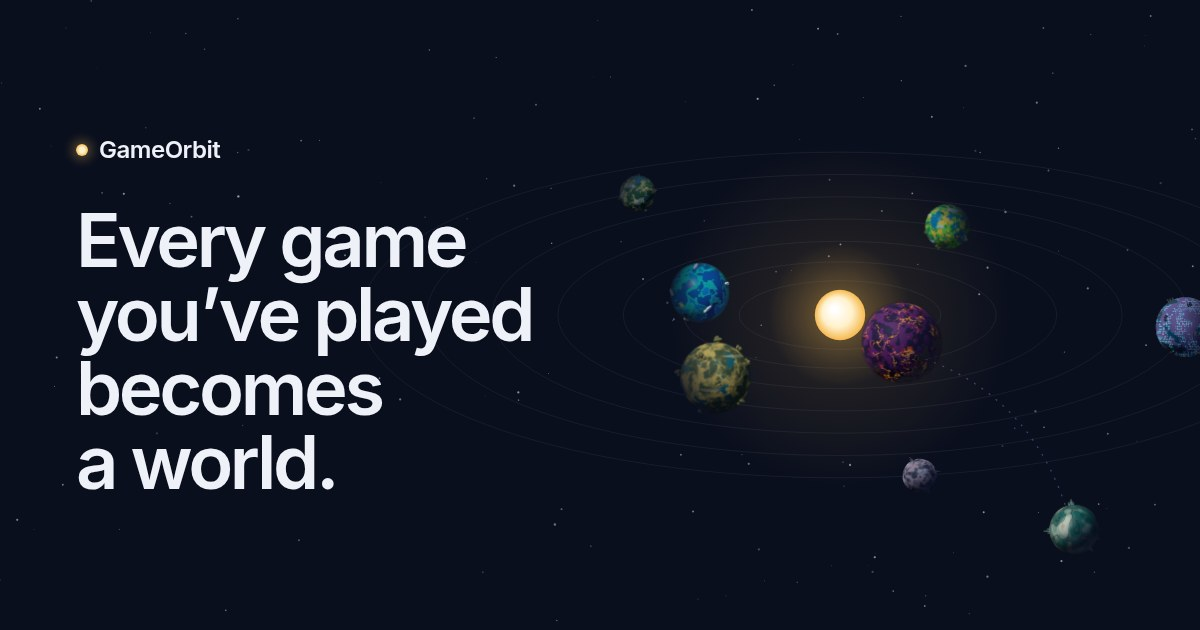
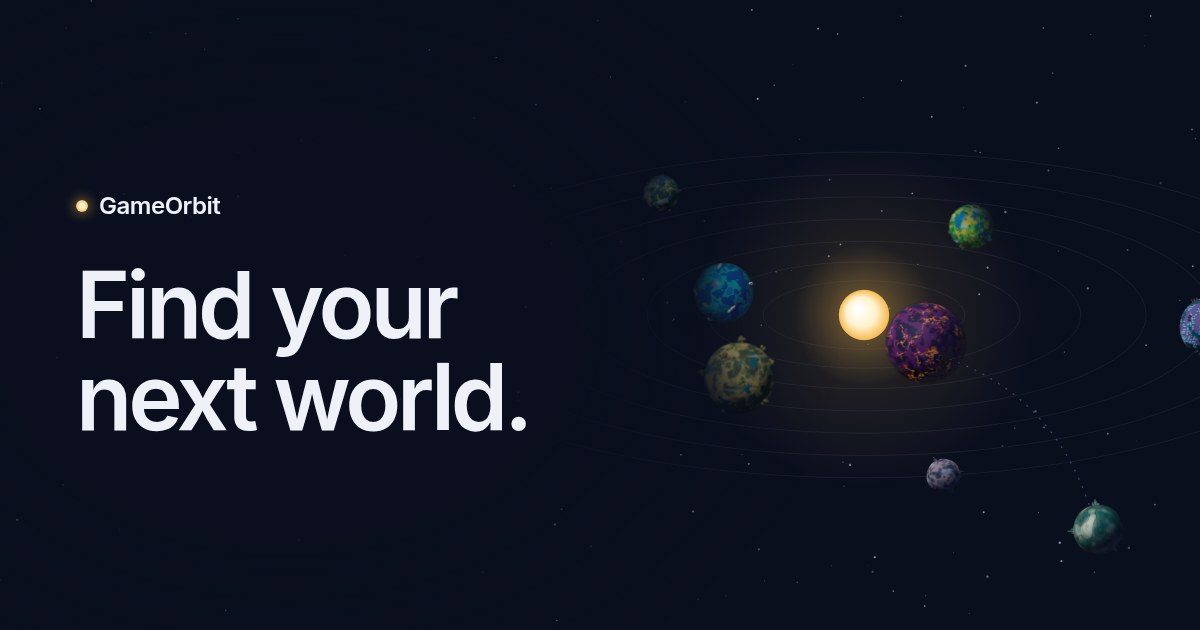
Make the homepage a single hero: "Find your next world."
Kevin chose a standalone hero with one line and the TestFlight button,
leaving the rest for people to discover in the app. The page is now the
orbit animation, "Find your next world.", "Join the TestFlight beta" and
"For iPhone and iPad", filling one screen between the header and footer.

Removed the homepage sections, the rating demo (rate.js) and the orbit
and flight screenshots. The header drops its duplicate beta button. The
link preview image and the invite page intro use the new line.
AGENTS.md records that the homepage stays a single hero.

Checked at 1440 and 1024 (2x), 1920, and 390 (3x) and 375 (2x):
one screen on desktop and iPad, headline and button above the fold on
the smallest iPhone, no console errors, broken links or overflow. The
private invite test passes against this branch.

Claude-Session: https://claude.ai/code/session_019jfzDjzmWwUSdCMXQw7Nnx

diff --git a/index.html b/index.html
@@ -5,15 +5,15 @@
 <meta name="viewport" content="width=device-width, initial-scale=1">
 <meta name="color-scheme" content="dark">
 <meta name="theme-color" content="#0a0f1e">
-<meta name="description" content="Rate the games you’ve played and each one becomes a world in your orbit. The worlds you’ve visited decide where you fly next.">
-<title>GameOrbit — Every game you’ve played becomes a world</title>
+<meta name="description" content="Find your next world. GameOrbit is in beta on iPhone and iPad.">
+<title>GameOrbit — Find your next world</title>
 <link rel="canonical" href="https://kcarter787.github.io/GameOrbit-site/">
 <link rel="icon" href="favicon.png" type="image/png">
 <link rel="apple-touch-icon" href="apple-touch-icon.png">
 <meta property="og:type" content="website">
 <meta property="og:site_name" content="GameOrbit">
-<meta property="og:title" content="GameOrbit — Every game you’ve played becomes a world">
-<meta property="og:description" content="Rate the games you’ve played and each one becomes a world in your orbit. The worlds you’ve visited decide where you fly next.">
+<meta property="og:title" content="GameOrbit — Find your next world">
+<meta property="og:description" content="GameOrbit is in beta on iPhone and iPad.">
 <meta property="og:url" content="https://kcarter787.github.io/GameOrbit-site/">
 <meta property="og:image" content="https://kcarter787.github.io/GameOrbit-site/images/og.jpg">
 <meta property="og:image:width" content="1200">
@@ -22,107 +22,18 @@
 <meta name="twitter:card" content="summary_large_image">
 <link rel="stylesheet" href="styles.css">
 <script src="orbit.js" defer></script>
-<script src="rate.js" defer></script>
 </head>
-<body>
+<body class="home">
 <a class="skip" href="#main">Skip to content</a>
-<header class="bar"><a class="brand" href="index.html">GameOrbit</a><nav aria-label="Main"><a href="support.html">Support</a><a class="hide-narrow" href="privacy.html">Privacy</a><a class="button small secondary" href="https://testflight.apple.com/join/PbN9ErAu">Join the beta</a></nav></header>
+<header class="bar"><a class="brand" href="index.html">GameOrbit</a><nav aria-label="Main"><a href="support.html">Support</a><a href="privacy.html">Privacy</a></nav></header>
 <main id="main">
 <section class="hero" aria-labelledby="title">
 <canvas id="orbit" aria-hidden="true"></canvas>
 <div class="hero-copy">
-<h1 id="title">Every game you’ve played becomes a world.</h1>
-<p class="lede">Rate what you’ve played to build your orbit. The worlds you’ve visited decide where you fly next.</p>
+<h1 id="title">Find your next world.</h1>
 <div class="cta"><a class="button" href="https://testflight.apple.com/join/PbN9ErAu">Join the TestFlight beta</a><span class="meta">For iPhone and iPad</span></div>
 </div>
 </section>
-
-<section class="section" aria-labelledby="worlds-title">
-<h2 id="worlds-title">Hades is an obsidian underworld.</h2>
-<div class="body"><p>Every game gets a world of its own, and it looks the same in your friends’ orbits as it does in yours.</p></div>
-<ul class="worlds">
-<li><figure><img src="images/worlds/hades.webp" width="480" height="480" alt="The Hades world: dark violet rock veined with glowing lava." loading="lazy"><figcaption><span class="title">Hades</span><span class="label">Obsidian underworld</span></figcaption></figure></li>
-<li><figure><img src="images/worlds/subnautica.webp" width="480" height="480" alt="The Subnautica world: deep blue ocean with turquoise shallows and drifting clouds." loading="lazy"><figcaption><span class="title">Subnautica</span><span class="label">Alien ocean</span></figcaption></figure></li>
-<li><figure><img src="images/worlds/elden-ring.webp" width="480" height="480" alt="The Elden Ring world: golden land with blue lakes and clusters of trees." loading="lazy"><figcaption><span class="title">Elden Ring</span><span class="label">Erdtree highlands</span></figcaption></figure></li>
-</ul>
-</section>
-
-<section class="section split" aria-labelledby="fun-title">
-<div>
-<h2 id="fun-title">Fun outranks everything.</h2>
-<div class="body">
-<p>Rate Fun, Gameplay, Art and sound, and Story from one to five stars. Fun sets the range, and the other three place the game within it.</p>
-<p>Five stars for Fun and one for everything else scores 8.5. Four for Fun and five for everything else scores 8.4. A game you couldn’t put down always ranks above one you only admired.</p>
-</div>
-</div>
-<form class="rater" id="rater" aria-label="Try the rating">
-<svg width="0" height="0" aria-hidden="true" style="position:absolute"><symbol id="star" viewBox="0 0 24 24"><path d="M12 2.9l2.8 5.7 6.3.9-4.55 4.45 1.07 6.27L12 17.25l-5.62 2.97 1.07-6.27L2.9 9.5l6.3-.9z" fill="currentColor" stroke="currentColor" stroke-width="1.8" stroke-linejoin="round"/></symbol></svg>
-<div class="row fun" role="radiogroup" aria-labelledby="fun-name">
-<span class="name" id="fun-name">Fun</span>
-<div class="stars"><input type="radio" name="fun" id="fun1" value="1" aria-label="1 star"><label for="fun1"><svg><use href="#star"/></svg></label><input type="radio" name="fun" id="fun2" value="2" aria-label="2 stars"><label for="fun2"><svg><use href="#star"/></svg></label><input type="radio" name="fun" id="fun3" value="3" aria-label="3 stars"><label for="fun3"><svg><use href="#star"/></svg></label><input type="radio" name="fun" id="fun4" value="4" aria-label="4 stars" checked><label for="fun4"><svg><use href="#star"/></svg></label><input type="radio" name="fun" id="fun5" value="5" aria-label="5 stars"><label for="fun5"><svg><use href="#star"/></svg></label></div>
-<span class="level" data-level="fun">Loved playing it</span>
-</div>
-<div class="row gameplay" role="radiogroup" aria-labelledby="gameplay-name">
-<span class="name" id="gameplay-name">Gameplay</span>
-<div class="stars"><input type="radio" name="gameplay" id="gameplay1" value="1" aria-label="1 star"><label for="gameplay1"><svg><use href="#star"/></svg></label><input type="radio" name="gameplay" id="gameplay2" value="2" aria-label="2 stars"><label for="gameplay2"><svg><use href="#star"/></svg></label><input type="radio" name="gameplay" id="gameplay3" value="3" aria-label="3 stars"><label for="gameplay3"><svg><use href="#star"/></svg></label><input type="radio" name="gameplay" id="gameplay4" value="4" aria-label="4 stars"><label for="gameplay4"><svg><use href="#star"/></svg></label><input type="radio" name="gameplay" id="gameplay5" value="5" aria-label="5 stars" checked><label for="gameplay5"><svg><use href="#star"/></svg></label></div>
-<span class="level" data-level="gameplay">Masterful</span>
-</div>
-<div class="row art" role="radiogroup" aria-labelledby="art-name">
-<span class="name" id="art-name">Art and sound</span>
-<div class="stars"><input type="radio" name="art" id="art1" value="1" aria-label="1 star"><label for="art1"><svg><use href="#star"/></svg></label><input type="radio" name="art" id="art2" value="2" aria-label="2 stars"><label for="art2"><svg><use href="#star"/></svg></label><input type="radio" name="art" id="art3" value="3" aria-label="3 stars"><label for="art3"><svg><use href="#star"/></svg></label><input type="radio" name="art" id="art4" value="4" aria-label="4 stars"><label for="art4"><svg><use href="#star"/></svg></label><input type="radio" name="art" id="art5" value="5" aria-label="5 stars" checked><label for="art5"><svg><use href="#star"/></svg></label></div>
-<span class="level" data-level="art">Iconic</span>
-</div>
-<div class="row story" role="radiogroup" aria-labelledby="story-name">
-<span class="name" id="story-name">Story</span>
-<div class="stars"><input type="radio" name="story" id="story1" value="1" aria-label="1 star"><label for="story1"><svg><use href="#star"/></svg></label><input type="radio" name="story" id="story2" value="2" aria-label="2 stars"><label for="story2"><svg><use href="#star"/></svg></label><input type="radio" name="story" id="story3" value="3" aria-label="3 stars"><label for="story3"><svg><use href="#star"/></svg></label><input type="radio" name="story" id="story4" value="4" aria-label="4 stars"><label for="story4"><svg><use href="#star"/></svg></label><input type="radio" name="story" id="story5" value="5" aria-label="5 stars" checked><label for="story5"><svg><use href="#star"/></svg></label></div>
-<span class="level" data-level="story">Unforgettable</span>
-</div>
-<div class="result">
-<output class="score t4" id="score">8.4</output>
-<div class="range" aria-hidden="true">
-<div class="head"><span>Fun sets the range</span></div>
-<div class="segments"><span></span><span></span><span></span><span class="on"></span><span></span></div>
-<div class="scale"><span style="left:0">0</span><span style="left:20%">4.0</span><span style="left:40%">5.5</span><span style="left:60%">7.0</span><span style="left:80%">8.5</span><span style="left:100%">10</span></div>
-<div class="track"><i class="g" style="width:33.333%"></i><i class="a" style="width:33.333%"></i><i class="s" style="width:33.333%"></i><b style="left:100%"></b></div>
-<div class="ends"><span id="low">7.0</span><span id="high">8.4</span></div>
-</div>
-</div>
-<p class="sr" id="summary" aria-live="polite"></p>
-</form>
-</section>
-
-<section class="section split media-first" aria-labelledby="orbit-title">
-<div>
-<h2 id="orbit-title">Bigger means better. Closer means earlier.</h2>
-<div class="body">
-<p>The higher you rank a game, the bigger its world. The earlier you started playing it, the closer it orbits your star.</p>
-<p>Your star takes its color from the gaming eras you love most.</p>
-</div>
-</div>
-<figure class="plate orbit"><img src="images/orbit.webp" width="1000" height="1000" alt="A player’s orbit: a pale blue star circled by fifteen game worlds of different sizes, colors and distances." loading="lazy"></figure>
-</section>
-
-<section class="section split" aria-labelledby="flight-title">
-<div>
-<h2 id="flight-title">Where you’ve been decides where you fly next.</h2>
-<div class="body">
-<p>Discovery flights look past genre. They follow the mechanics and studios behind the games you rated highly, and steer away from what you didn’t enjoy. A few picks will stretch your taste on purpose.</p>
-<p>Each flight visits up to five worlds. Friends who scored one are already in orbit when you arrive, and their scores shape your picks when their taste lines up with yours.</p>
-</div>
-</div>
-<figure class="plate flight"><img src="images/flight.webp" width="910" height="480" alt="A world on a discovery flight, with three friends’ ships in orbit around it." loading="lazy"></figure>
-</section>
-
-<div class="coda">
-<div class="notes">
-<section aria-labelledby="friends"><h3 id="friends">Friends</h3><p>Add friends by handle or friend code to see their scores and the notes they choose to share.</p></section>
-<section aria-labelledby="privacy"><h3 id="privacy">Privacy</h3><p>Notes, tags and play dates stay private unless you share a note, and you choose who sees your profile. <a href="privacy.html">Privacy policy</a></p></section>
-</div>
-<section class="closing" aria-labelledby="closing-title">
-<h2 id="closing-title">GameOrbit is in beta on iPhone and iPad.</h2>
-<div class="cta"><a class="button" href="https://testflight.apple.com/join/PbN9ErAu">Join the TestFlight beta</a><a class="button secondary" href="support.html">Questions and answers</a></div>
-</section>
-</div>
 </main>
 <footer><span>© 2026 Kevin Carter</span><nav aria-label="Footer"><a href="support.html">Support</a><a href="privacy.html">Privacy policy</a><a href="community.html">Community guidelines</a></nav></footer>
 </body>

diff --git a/styles.css b/styles.css
@@ -1,14 +1,11 @@
 /* GameOrbit site. Colors come from the app's asset catalog: Space, RatingCard, Accent (dark),
-   StarCore, StarCorona, RatingHint, and the planet and score palettes. Dark only, like the app's
+   StarCore, StarCorona and RatingHint. Dark only, like the app's
    planetarium. Type is the system stack, which is SF Pro on Apple devices, the app's typeface. */
 :root{
   color-scheme:dark;
   --space:#0a0f1e;--surface:#111729;--raised:#1a2135;--line:#1c2338;--line-strong:#2a3350;
   --text:#eef1f8;--muted:#a2aac0;--faint:#7c859f;--accent:#a39cff;--on-accent:#0a0f1e;
   --star:#fff1cc;--corona:#f6b94f;
-  --ember:#ee7a57;--cyan:#5ccfe3;--violet:#9a7df5;--rose:#ec7fb2;
-  --score-low:#e5676b;--score-mid:#ebc24a;--score-soft:#a7d3b7;--score-high:#5dbe8a;
-  --aurora:linear-gradient(100deg,#65d4e1,#5dbe8a 52%,#a68bf5);
   --sans:system-ui,-apple-system,BlinkMacSystemFont,"Segoe UI",Roboto,"Helvetica Neue",sans-serif;
   --mono:ui-monospace,"SF Mono",SFMono-Regular,Menlo,Consolas,monospace;
   --gutter:clamp(20px,5vw,64px);--wide:1240px;--measure:62ch;
@@ -53,79 +50,15 @@ footer a:hover{color:var(--text)}
 .hero canvas{position:absolute;inset:0;width:100%;height:100%;display:block}
 .hero::before{content:"";position:absolute;inset:0;z-index:1;pointer-events:none;background:radial-gradient(ellipse 46% 64% at 24% 52%,rgba(10,15,30,.9) 52%,rgba(10,15,30,0) 100%)}
 .hero-copy{position:relative;z-index:2;max-width:calc(var(--wide) - 2 * var(--gutter));width:100%;margin:auto}
-.hero h1{font-size:clamp(44px,6vw,88px);line-height:.98;letter-spacing:-.045em;max-width:12ch}
-.hero .lede{margin-top:28px;font-size:clamp(18px,1.8vw,22px);line-height:1.5;color:var(--muted);max-width:34ch}
+.hero h1{font-size:clamp(52px,7.4vw,112px);line-height:.96;letter-spacing:-.05em;max-width:8ch}
 .cta{display:flex;flex-wrap:wrap;align-items:center;gap:14px 18px;margin-top:36px}
 .cta .meta{font-size:15px;color:var(--faint)}
 
-/* Sections */
-.section{max-width:var(--wide);margin:auto;padding:clamp(96px,13vw,176px) var(--gutter) 0}
-.hero+.section{padding-top:clamp(56px,8vw,112px)}
-.section h2{font-size:clamp(34px,4.6vw,62px);line-height:1.02;letter-spacing:-.04em;max-width:15ch}
-.section .body{margin-top:26px;display:grid;gap:16px;max-width:46ch}
-.section .body p{font-size:clamp(17px,1.5vw,19px);color:var(--muted)}
-.split{display:grid;grid-template-columns:minmax(0,1fr) minmax(0,1fr);gap:clamp(48px,7vw,112px);align-items:center}
-.split.media-first>figure{order:-1}
-
-/* Worlds: a few, shown large */
-.worlds{list-style:none;margin:clamp(56px,7vw,96px) 0 0;padding:0;display:grid;grid-template-columns:repeat(3,minmax(0,1fr));gap:clamp(24px,5vw,72px)}
-.worlds figure{margin:0}
-.worlds img{display:block;width:100%;height:auto;aspect-ratio:1;transition:transform 1.2s cubic-bezier(.2,.8,.2,1)}
-.worlds li:hover img{transform:rotate(-3deg) scale(1.02)}
-.worlds figcaption{margin-top:18px;display:grid;gap:4px;text-align:center}
-.worlds .title{font-size:17px;font-weight:500;letter-spacing:-.015em;color:var(--text)}
-
-/* Rating demo, modeled on the app's rating cards and result range */
-.rater{background:var(--surface);border:1px solid var(--raised);border-radius:26px;padding:clamp(18px,2.6vw,30px)}
-.rater .row{display:grid;grid-template-columns:minmax(0,1fr) auto;align-items:center;gap:2px 16px;padding:14px 0;border-bottom:1px solid var(--line)}
-.rater .row:first-child{padding-top:0}
-.rater .name{font-weight:600;font-size:16px;letter-spacing:-.01em}
-.rater .stars{grid-row:1/3;grid-column:2;display:flex;gap:2px;justify-self:end}
-.rater .name{grid-column:1;align-self:end}
-.rater .level{grid-column:1;align-self:start;font-size:13px;line-height:1.4;color:var(--muted);min-height:1.4em}
-.stars input{position:absolute;opacity:0;width:1px;height:1px;margin:0;pointer-events:none}
-.stars label{display:block;width:36px;height:36px;padding:4px;cursor:pointer;color:var(--c);opacity:.24;transition:opacity .15s,transform .15s}
-.stars label.on{opacity:1}
-.stars label:hover{transform:scale(1.08)}
-.stars svg{display:block;width:100%;height:100%}
-.stars input:focus-visible+label{outline:2px solid var(--accent);outline-offset:0;border-radius:8px}
-.row.fun{--c:var(--ember)}.row.gameplay{--c:var(--cyan)}.row.art{--c:var(--violet)}.row.story{--c:var(--rose)}
-.result{display:grid;grid-template-columns:auto minmax(0,1fr);gap:8px 28px;align-items:center;padding-top:22px}
-.score{font:600 clamp(56px,6vw,72px)/1 var(--sans);letter-spacing:-.035em;font-variant-numeric:tabular-nums;min-width:2.6ch;color:var(--score-high)}
-.score.t1{color:var(--score-low)}.score.t2{color:var(--score-mid)}.score.t3{color:var(--score-soft)}.score.t4{color:var(--score-high)}
-.score.t5{background:var(--aurora);-webkit-background-clip:text;background-clip:text;color:transparent}
-.score.pop{animation:pop .42s cubic-bezier(.2,.8,.2,1)}
-@keyframes pop{0%{transform:scale(.9)}55%{transform:scale(1.06)}100%{transform:scale(1)}}
-.range{display:grid;gap:8px;font-size:12px;color:var(--faint)}
-.range .head{display:flex;justify-content:space-between;gap:12px;color:var(--muted);font-size:13px}
-.segments{display:grid;grid-template-columns:repeat(5,1fr);gap:4px;align-items:center}
-.segments span{height:8px;border-radius:5px;background:rgba(238,122,87,.2);transition:background-color .3s,height .3s}
-.segments span.on{background:var(--ember);height:12px}
-.scale{position:relative;height:1.4em;font-variant-numeric:tabular-nums}
-.scale span{position:absolute;top:0;transform:translateX(-50%)}
-.scale span:first-child{transform:none}.scale span:last-child{transform:translateX(-100%)}
-.track{position:relative;height:10px;border-radius:5px;background:rgba(238,122,87,.14);display:flex;overflow:visible;margin-top:6px}
-.track i{display:block;height:100%;transition:width .45s cubic-bezier(.2,.8,.2,1)}
-.track i:first-child{border-radius:5px 0 0 5px}
-.track .g{background:var(--cyan)}.track .a{background:var(--violet)}.track .s{background:var(--rose)}
-.track b{position:absolute;top:-6px;width:3px;height:22px;border-radius:2px;background:var(--text);transform:translateX(-50%);transition:left .45s cubic-bezier(.2,.8,.2,1)}
-.ends{display:flex;justify-content:space-between;font-variant-numeric:tabular-nums}
-@media(prefers-reduced-motion:reduce){.score.pop{animation:none}.track i,.track b,.segments span,.worlds img{transition:none}}
-
-/* Orbit and flight images sit directly on space; their backgrounds match it exactly */
-.plate{margin:0}
-.plate img{display:block;width:100%;height:auto}
-.plate.orbit img{max-width:620px;margin:auto}
-.plate.flight img{-webkit-mask-image:radial-gradient(ellipse 80% 86% at 50% 50%,#000 70%,transparent 100%);mask-image:radial-gradient(ellipse 80% 86% at 50% 50%,#000 70%,transparent 100%)}
-.plate figcaption{margin-top:14px;text-align:center}
-
-/* Closing */
-.coda{max-width:var(--wide);margin:auto;padding:clamp(96px,13vw,176px) var(--gutter) clamp(88px,11vw,144px)}
-.notes{display:grid;grid-template-columns:repeat(2,minmax(0,1fr));gap:clamp(28px,6vw,96px);padding:36px 0 0;border-top:1px solid var(--line)}
-.notes h3{font-size:18px;letter-spacing:-.015em}
-.notes p{margin-top:10px;color:var(--muted);max-width:46ch}
-.closing{margin-top:clamp(88px,11vw,144px)}
-.closing h2{font-size:clamp(34px,4.6vw,62px);line-height:1.02;letter-spacing:-.04em;max-width:18ch}
+/* Homepage: one screen, the hero fills what the header and footer leave */
+body.home{min-height:100vh;min-height:100svh;display:flex;flex-direction:column}
+body.home main{flex:1;display:flex}
+body.home .hero{flex:1;min-height:560px}
+body.home>.bar,body.home>footer{width:100%}
 
 /* Long-form pages */
 .page{max-width:var(--wide);margin:auto;padding:clamp(40px,7vw,88px) var(--gutter) 104px}
@@ -186,25 +119,18 @@ footer a:hover{color:var(--text)}
 #copied{min-height:1.6em;color:var(--muted);font-size:15px}
 
 @media(max-width:900px){
-  .split{grid-template-columns:1fr}
-  .split.media-first>figure{order:0}
-  .notes{grid-template-columns:1fr}
   .with-toc{grid-template-columns:1fr}
   .toc{position:static}
   .table th{width:36%}
 }
 @media(max-width:820px){
   .hero{min-height:0;align-items:start;padding-top:392px;margin-top:-80px}
+  body.home .hero{min-height:0;padding-bottom:56px}
   .hero canvas{height:460px;bottom:auto}
   .hero::before{display:none}
 }
 @media(max-width:560px){
   .bar{padding-top:18px;padding-bottom:18px}
   .bar nav a.hide-narrow{display:none}
-  .stars label{width:33px;height:33px}
   .bar nav{gap:16px}
-  .result{grid-template-columns:1fr}
-  .worlds{grid-template-columns:1fr;gap:20px}
-  .worlds figure{display:grid;grid-template-columns:112px 1fr;align-items:center;gap:20px}
-  .worlds figcaption{margin:0;text-align:left}
 }

diff --git a/invite.html b/invite.html
@@ -1,3 +1,3 @@
 <!doctype html>
 <html lang="en"><head><meta charset="utf-8"><meta name="viewport" content="width=device-width, initial-scale=1"><meta name="color-scheme" content="dark"><meta name="theme-color" content="#0a0f1e"><meta name="robots" content="noindex, nofollow"><meta name="referrer" content="no-referrer"><meta name="description" content="A friend invited you to GameOrbit."><title>You’re invited — GameOrbit</title><link rel="icon" href="favicon.png" type="image/png"><link rel="apple-touch-icon" href="apple-touch-icon.png"><link rel="stylesheet" href="styles.css"><script src="invite.js" defer></script></head>
-<body><header class="bar"><a class="brand" href="index.html">GameOrbit</a></header><main class="page"><article class="invite page-head"><h1>A friend invited you to GameOrbit</h1><p class="lede">Every game you’ve played becomes a world. Rate what you’ve played to build your orbit, and the worlds you’ve visited decide where you fly next.</p><section id="invitation" hidden><h2>Your invite code</h2><strong class="code" id="code"></strong><div class="actions"><button id="copy" type="button">Copy code</button><a id="open" class="button secondary">Open GameOrbit</a></div><p id="copied" role="status"></p><div class="prose"><p>After you sign in, accept the invite and save your first game. Your friend earns invite credit; your games and notes stay private.</p><p>Don’t have the app yet? Keep this code. Once it’s installed, open this link again, or tap “Have a friend code?” when you sign up.</p></div></section><p id="invalid" class="lede" hidden>This invite link is incomplete. Ask your friend for their six-character code.</p><p id="distribution" class="meta">GameOrbit is in beta for iPhone and iPad.</p><noscript>Turn on JavaScript to see the invite code, or ask your friend to send it to you.</noscript></article></main><footer><span>© 2026 Kevin Carter</span><nav aria-label="Footer"><a href="privacy.html">Privacy policy</a><a href="support.html">Support</a></nav></footer></body></html>
+<body><header class="bar"><a class="brand" href="index.html">GameOrbit</a></header><main class="page"><article class="invite page-head"><h1>A friend invited you to GameOrbit</h1><p class="lede">Find your next world.</p><section id="invitation" hidden><h2>Your invite code</h2><strong class="code" id="code"></strong><div class="actions"><button id="copy" type="button">Copy code</button><a id="open" class="button secondary">Open GameOrbit</a></div><p id="copied" role="status"></p><div class="prose"><p>After you sign in, accept the invite and save your first game. Your friend earns invite credit; your games and notes stay private.</p><p>Don’t have the app yet? Keep this code. Once it’s installed, open this link again, or tap “Have a friend code?” when you sign up.</p></div></section><p id="invalid" class="lede" hidden>This invite link is incomplete. Ask your friend for their six-character code.</p><p id="distribution" class="meta">GameOrbit is in beta for iPhone and iPad.</p><noscript>Turn on JavaScript to see the invite code, or ask your friend to send it to you.</noscript></article></main><footer><span>© 2026 Kevin Carter</span><nav aria-label="Footer"><a href="privacy.html">Privacy policy</a><a href="support.html">Support</a></nav></footer></body></html>

diff --git a/AGENTS.md b/AGENTS.md
@@ -17,7 +17,7 @@ This repository and everything in it is public.
 - Every product claim must match what the current app does. Describe shipped behavior, not plans.
 - The privacy policy and support answers must match the app's actual data handling. Check with Kevin before changing either.
 - Plain, specific language. Don't add disclaimers, data-source or provider labels, or implementation details unless Kevin asks.
-- Keep exact prices and membership limits out of the homepage.
+- The homepage is a single hero: “Find your next world.” and the TestFlight button over the orbit animation, left for people to discover. Keep it that way unless Kevin asks; don't add sections, feature explanations or prices.
 
 ## Design
 
